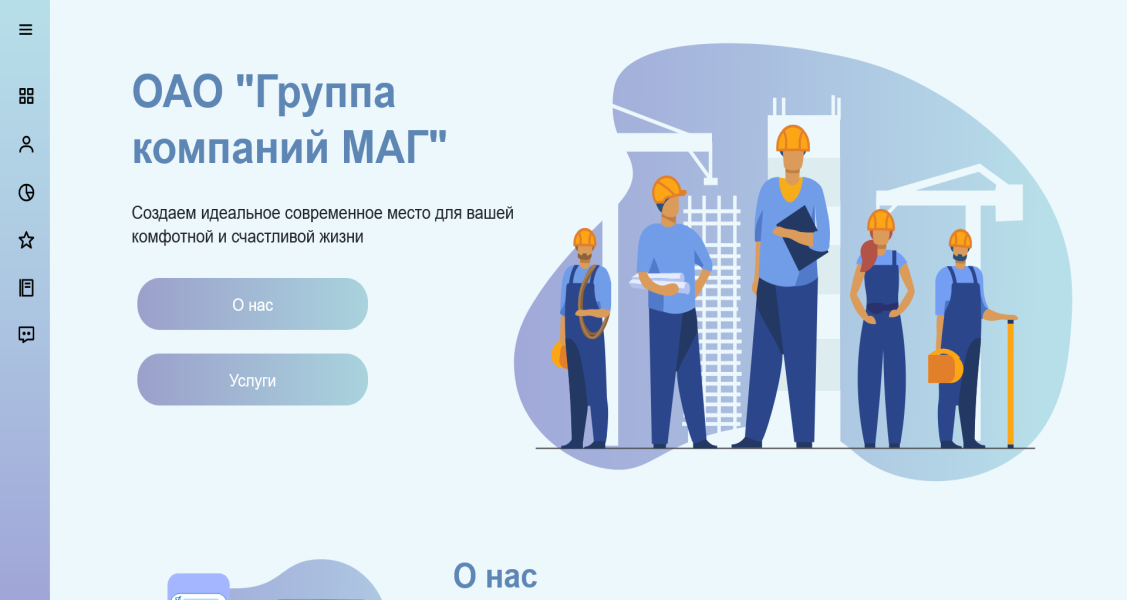
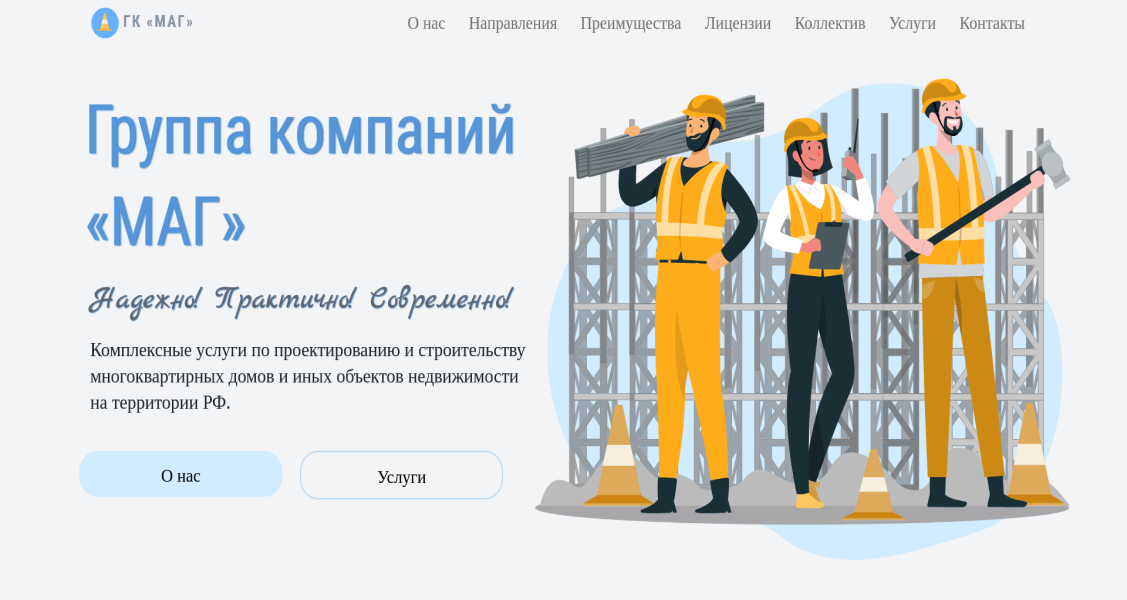
изменено описание и картинка про МАГ

diff --git a/components/works.vue b/components/works.vue
@@ -151,7 +151,7 @@
             git:'https://github.com/AnigalHub/GroupOfCompaniesMAG',
             show:'/mag',
             technology:'Vue',
-            about:'Сайт компаний, занимающихся строительно-монтажными и пуско-наладочными работами систем.'
+            about:'Сайт группы компаний, оказывающих услуги по строительно-монтажными и пуско-наладочными работами систем.'
           },
           {
             src:'/home_greasepaint.png',
